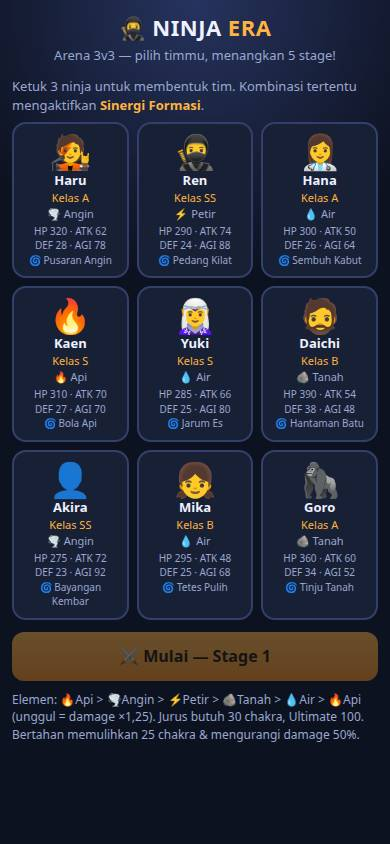
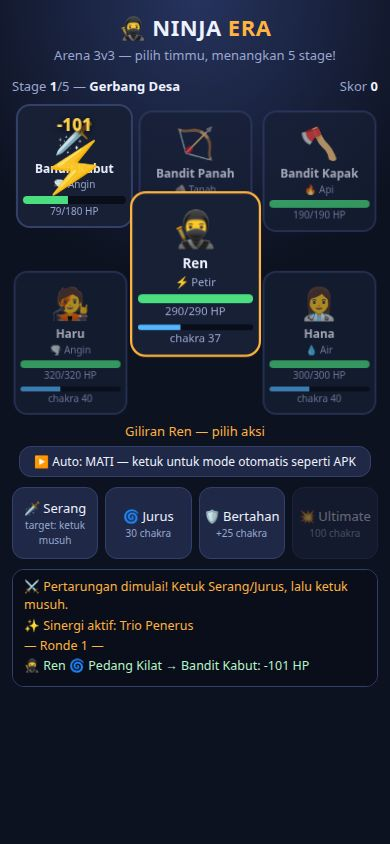
Ninja Era v2: animasi battle gaya APK (dash, efek elemen, angka damage, flash ultimate) + mode Auto

diff --git a/ninja-era/index.html b/ninja-era/index.html
@@ -32,7 +32,30 @@ button:disabled{opacity:.38;cursor:default}
 .fighter .ava{font-size:32px}
 .fighter .nm{font-weight:700;font-size:12px;white-space:nowrap;overflow:hidden}
 .fighter .el{font-size:10px;color:var(--mut)}
-.fighter.dead{opacity:.35;filter:grayscale(1)}
+.fighter.dead{opacity:.35;filter:grayscale(1);transform:rotate(-8deg) translateY(6px)}
+.fighter{animation:enter .35s ease-out}
+@keyframes enter{from{opacity:0;transform:translateY(14px) scale(.92)}to{opacity:1}}
+.fighter .ava{display:inline-block;animation:bob 1.7s ease-in-out infinite}
+.team .fighter:nth-child(2) .ava{animation-delay:.35s}.team .fighter:nth-child(3) .ava{animation-delay:.7s}
+@keyframes bob{0%,100%{transform:translateY(0)}50%{transform:translateY(-4px)}}
+.fighter.dash-up{animation:dashUp .38s ease-in-out}
+.fighter.dash-down{animation:dashDown .38s ease-in-out}
+@keyframes dashUp{0%{transform:translateY(0)}45%{transform:translateY(-64px) scale(1.12)}100%{transform:translateY(0)}}
+@keyframes dashDown{0%{transform:translateY(0)}45%{transform:translateY(64px) scale(1.12)}100%{transform:translateY(0)}}
+.dmgnum{position:absolute;left:50%;top:6px;transform:translateX(-50%);font-weight:800;font-size:17px;color:#ffd34d;text-shadow:0 2px 6px #000;animation:floatUp .95s ease-out forwards;pointer-events:none;z-index:5;white-space:nowrap}
+.dmgnum.adv{color:#ff9d3c;font-size:20px}.dmgnum.heal{color:#4ade80}
+@keyframes floatUp{0%{opacity:0;margin-top:10px}15%{opacity:1}100%{opacity:0;margin-top:-26px}}
+.fx{position:absolute;inset:0;display:flex;align-items:center;justify-content:center;font-size:44px;pointer-events:none;z-index:4;animation:fxPop .55s ease-out forwards}
+.fx.big{font-size:64px;animation:fxPop .8s ease-out forwards}
+@keyframes fxPop{0%{opacity:0;transform:scale(.3) rotate(-30deg)}35%{opacity:1;transform:scale(1.25) rotate(8deg)}100%{opacity:0;transform:scale(1.6) rotate(0deg)}}
+.fx.spin{animation:fxSpin .6s linear forwards}
+@keyframes fxSpin{0%{opacity:0;transform:scale(.4) rotate(0deg)}30%{opacity:1}100%{opacity:0;transform:scale(1.5) rotate(340deg)}}
+#flash{position:fixed;inset:0;background:#fff8e0;opacity:0;pointer-events:none;z-index:50}
+#flash.on{animation:flashA .45s ease-out}
+@keyframes flashA{0%{opacity:0}20%{opacity:.55}100%{opacity:0}}
+.shakebig{animation:shakeB .4s}
+@keyframes shakeB{0%,100%{transform:translateX(0)}20%{transform:translateX(-7px)}40%{transform:translateX(6px)}60%{transform:translateX(-4px)}80%{transform:translateX(3px)}}
+.shieldring{position:absolute;inset:-3px;border:2px dashed #53b6ff;border-radius:16px;animation:fxPop .5s ease-out;pointer-events:none}
 .fighter.active{border-color:var(--acc)}
 .fighter.targetable{border-color:var(--red);animation:pulse 0.8s infinite}
 .fighter.hit{animation:shake .3s}
@@ -79,7 +102,9 @@ button:disabled{opacity:.38;cursor:default}
   <div class="team" id="foes"></div>
   <div class="vs">— VS —</div>
   <div class="team" id="allies"></div>
+  <div id="flash"></div>
   <div class="turninfo" id="turninfo"></div>
+  <div style="text-align:center;margin-bottom:6px"><button id="btn-auto" style="font-size:12px;padding:6px 14px">▶ Auto: MATI — ketuk untuk mode otomatis seperti APK</button></div>
   <div class="actions">
     <button id="act-atk">🗡 Serang<small>target: ketuk musuh</small></button>
     <button id="act-skill">🌀 Jurus<small>30 chakra</small></button>
@@ -140,6 +165,10 @@ var score = 0, stageIdx = 0, round = 0, sentEnd = false;
 var allies = [], foes = [], queue = [], current = null, armed = null, syn = null, backupUsed = {};
 window.__gameState = function(){ return { game:'ninja-era', phase:phase, score:score, stage:stageIdx+1, round:round }; };
 
+var pendingFx = {}, pendingFlash = false, autoMode = false;
+function fxKey(f){ return (f.foe?'foe-':'aly-') + (f.foe?foes:allies).indexOf(f); }
+function queueFx(f, fx){ var k = fxKey(f); (pendingFx[k] = pendingFx[k] || []).push(fx); }
+var ELFX = {api:'🔥', angin:'🌀', petir:'⚡', tanah:'🪨', air:'💦'};
 var pick = [];
 var rosterEl = document.getElementById('roster');
 ROSTER.forEach(function(r){
@@ -192,6 +221,14 @@ function render(){
         + '<div class="bar hp"><i style="width:'+Math.max(0,f.hp/f.maxhp*100)+'%" class="'+(f.hp/f.maxhp<0.3?'low':'')+'"></i></div><div class="hpnum">'+Math.max(0,f.hp)+'/'+f.maxhp+' HP</div>'
         + (f.foe?'':'<div class="bar ck"><i style="width:'+f.ck+'%"></i></div><div class="hpnum">chakra '+Math.floor(f.ck)+'</div>');
       if (f.foe) d.onclick = function(){ if (armed && f.hp>0) doPlayerAction(armed, f); };
+      var q = pendingFx[(f.foe?'foe-':'aly-')+idx];
+      if (q){ q.forEach(function(x){
+        if (x.t==='dmg'){ var s=document.createElement('span'); s.className='dmgnum'+(x.adv?' adv':'')+(x.heal?' heal':''); s.textContent=x.v; d.appendChild(s); }
+        if (x.t==='fx'){ var s2=document.createElement('span'); s2.className='fx'+(x.big?' big':'')+(x.spin?' spin':''); s2.textContent=x.v; d.appendChild(s2); }
+        if (x.t==='shake'){ d.classList.add('hit'); }
+        if (x.t==='dash'){ d.classList.add(f.foe?'dash-down':'dash-up'); }
+        if (x.t==='shield'){ var s3=document.createElement('span'); s3.className='shieldring'; d.appendChild(s3); }
+      }); }
       box.appendChild(d);
     });
   });
@@ -204,12 +241,20 @@ function render(){
   } else document.getElementById('turninfo').textContent = phase==='playing' ? 'Giliran musuh…' : '';
   document.querySelectorAll('.actions button').forEach(function(b){ b.classList.remove('armed'); });
   if (armed) document.getElementById(armed==='atk'?'act-atk':armed==='skill'?'act-skill':'act-ult').classList.add('armed');
+  flushFx();
 }
 function alive(list){ return list.filter(function(f){ return f.hp>0; }); }
+function flushFx(){ pendingFx = {}; if (pendingFlash){ pendingFlash=false; var fl=document.getElementById('flash'); fl.classList.remove('on'); void fl.offsetWidth; fl.classList.add('on'); var sb=document.getElementById('screen-battle'); sb.classList.remove('shakebig'); void sb.offsetWidth; sb.classList.add('shakebig'); } }
 function hitFx(f){ var idx=(f.foe?foes:allies).indexOf(f); var el=document.getElementById((f.foe?'foe-':'aly-')+idx); if(el){ el.classList.add('hit'); setTimeout(function(){el.classList.remove('hit');},320);} }
 function strike(att, tgt, mul, label){
-  var d = dmg(att, tgt, mul); tgt.hp -= d; att.ck = Math.min(100, att.ck + 12); hitFx(tgt); hap(att.foe?'err':'tap');
-  log((att.foe?'':'') + att.ava + ' ' + att.nm + ' ' + label + ' → ' + tgt.nm + ': -' + d + ' HP' + (elMul(att.el,tgt.el)>1?' (elemen unggul!)':''), att.foe?'bad':'good');
+  var isUlt = label.indexOf('💥')>=0, isSkill = label.indexOf('🌀')>=0;
+  var d = dmg(att, tgt, mul); tgt.hp -= d; att.ck = Math.min(100, att.ck + 12); hap(att.foe?'err':'tap');
+  queueFx(att, {t:'dash'});
+  queueFx(tgt, {t:'shake'});
+  queueFx(tgt, {t:'fx', v:ELFX[att.el], big:isUlt, spin:(att.el==='angin')});
+  if (isUlt) pendingFlash = true;
+  queueFx(tgt, {t:'dmg', v:'-'+d, adv:elMul(att.el,tgt.el)>1});
+  log(att.ava + ' ' + att.nm + ' ' + label + ' → ' + tgt.nm + ': -' + d + ' HP' + (elMul(att.el,tgt.el)>1?' (elemen unggul!)':''), att.foe?'bad':'good');
   if (tgt.hp<=0) log('💀 ' + tgt.nm + ' tumbang!', 'sys');
 }
 function nextTurn(){
@@ -227,17 +272,18 @@ function nextTurn(){
   if (current.hp<=0) return nextTurn();
   current.ck = Math.min(100, current.ck + 15);
   armed = null; render();
-  if (current.foe) setTimeout(enemyAct, 650);
+  if (current.foe) setTimeout(enemyAct, 800); else if (autoMode) setTimeout(autoAct, 700);
 }
 function doPlayerAction(kind, target){
   var me = current; armed = null;
-  if (kind==='def'){ me.defUp = true; me.ck = Math.min(100, me.ck+25); log('🛡 ' + me.nm + ' bertahan (+25 chakra).', 'good'); return setTimeout(nextTurn, 350); }
+  if (kind==='def'){ me.defUp = true; me.ck = Math.min(100, me.ck+25); queueFx(me, {t:'shield'}); log('🛡 ' + me.nm + ' bertahan (+25 chakra).', 'good'); render(); return setTimeout(nextTurn, 650); }
   if (me.heal && kind!=='atk'){
     var tgt = alive(allies).sort(function(a,b){return a.hp/a.maxhp - b.hp/b.maxhp;})[0];
     var amt = Math.round(me.atk * (kind==='ult'? me.um : me.sm));
     tgt.hp = Math.min(tgt.maxhp, tgt.hp + amt); me.ck -= (kind==='ult'?100:30);
+    queueFx(tgt, {t:'fx', v:'✨', big:(kind==='ult')}); queueFx(tgt, {t:'dmg', v:'+'+amt, heal:true}); if (kind==='ult') pendingFlash = true;
     log('💚 ' + me.nm + ' ' + (kind==='ult'?me.ult:me.skill) + ' → ' + tgt.nm + ': +' + amt + ' HP', 'good'); hap('ok');
-    return setTimeout(nextTurn, 450);
+    return setTimeout(nextTurn, 850);
   }
   if (kind==='skill'){ me.ck -= 30; strike(me, target, me.sm, '🌀 '+me.skill); }
   else if (kind==='ult'){ me.ck -= 100; strike(me, target, me.um, '💥 '+me.ult); }
@@ -245,10 +291,10 @@ function doPlayerAction(kind, target){
   if (syn && syn.backup && alive(foes).length && Math.random() < syn.backup && !backupUsed[round+'-'+me.id]){
     backupUsed[round+'-'+me.id] = 1;
     var t2 = alive(foes)[Math.floor(Math.random()*alive(foes).length)];
-    setTimeout(function(){ strike(me, t2, 1.4, '✨ serangan cadangan'); render(); setTimeout(nextTurn, 400); }, 420);
+    setTimeout(function(){ strike(me, t2, 1.4, '✨ serangan cadangan'); render(); setTimeout(nextTurn, 900); }, 500);
     render(); return;
   }
-  render(); setTimeout(nextTurn, 450);
+  render(); setTimeout(nextTurn, 950);
 }
 function enemyAct(){
   var me = current; if (!me || me.hp<=0) return nextTurn();
@@ -257,7 +303,7 @@ function enemyAct(){
   if (me.ck>=100){ me.ck=0; strike(me, tgt, 2.6, '💥 jurus pamungkas'); }
   else if (me.ck>=30 && Math.random()<0.5){ me.ck-=30; strike(me, tgt, 1.6, '🌀 jurus'); }
   else strike(me, tgt, 1, 'menyerang');
-  render(); setTimeout(nextTurn, 550);
+  render(); setTimeout(nextTurn, 1000);
 }
 function stageWin(){
   var hpPct = Math.round(alive(allies).reduce(function(s,f){return s+f.hp;},0) / allies.reduce(function(s,f){return s+f.maxhp;},0) * 100);
@@ -285,6 +331,22 @@ function gameEnd(won){
     try { tg.sendData(JSON.stringify({ game:'ninja-era', score:score, phase:phase })); } catch(e){} }
   hap(won?'ok':'err');
 }
+function autoAct(){
+  if (!autoMode || phase!=='playing' || !current || current.foe) return;
+  var me = current;
+  if (me.heal && me.ck>=30 && alive(allies).some(function(f){return f.hp/f.maxhp<0.65;})) return doPlayerAction('skill');
+  var targets = alive(foes); if (!targets.length) return;
+  var tgt = targets[Math.floor(Math.random()*targets.length)];
+  if (me.ck>=100) return doPlayerAction('ult', tgt);
+  if (me.ck>=30 && Math.random()<0.6) return doPlayerAction('skill', tgt);
+  if (me.hp/me.maxhp<0.25 && Math.random()<0.3) return doPlayerAction('def');
+  return doPlayerAction('atk', tgt);
+}
+document.getElementById('btn-auto').onclick = function(){
+  autoMode = !autoMode; hap('tap');
+  this.textContent = autoMode ? '⏸ Auto: NYALA — battle jalan sendiri seperti APK (ketuk untuk manual)' : '▶ Auto: MATI — ketuk untuk mode otomatis seperti APK';
+  if (autoMode && current && !current.foe && phase==='playing') setTimeout(autoAct, 400);
+};
 document.getElementById('act-atk').onclick = function(){ armed = armed==='atk'?null:'atk'; render(); };
 document.getElementById('act-skill').onclick = function(){ if (current && current.heal) return doPlayerAction('skill'); armed = armed==='skill'?null:'skill'; render(); };
 document.getElementById('act-ult').onclick = function(){ if (current && current.heal) return doPlayerAction('ult'); armed = armed==='ult'?null:'ult'; render(); };
